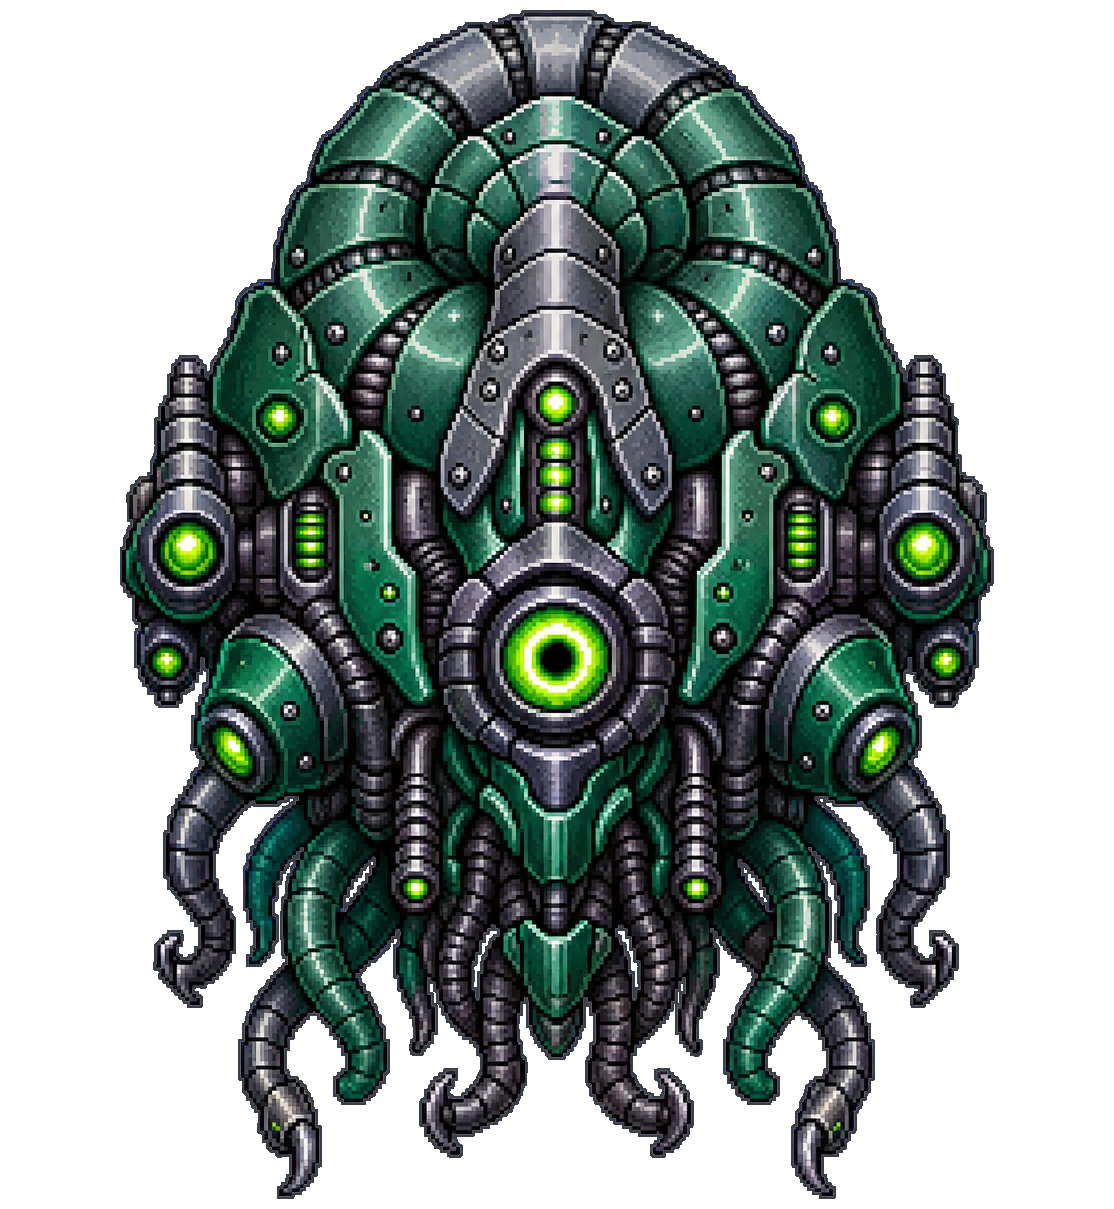
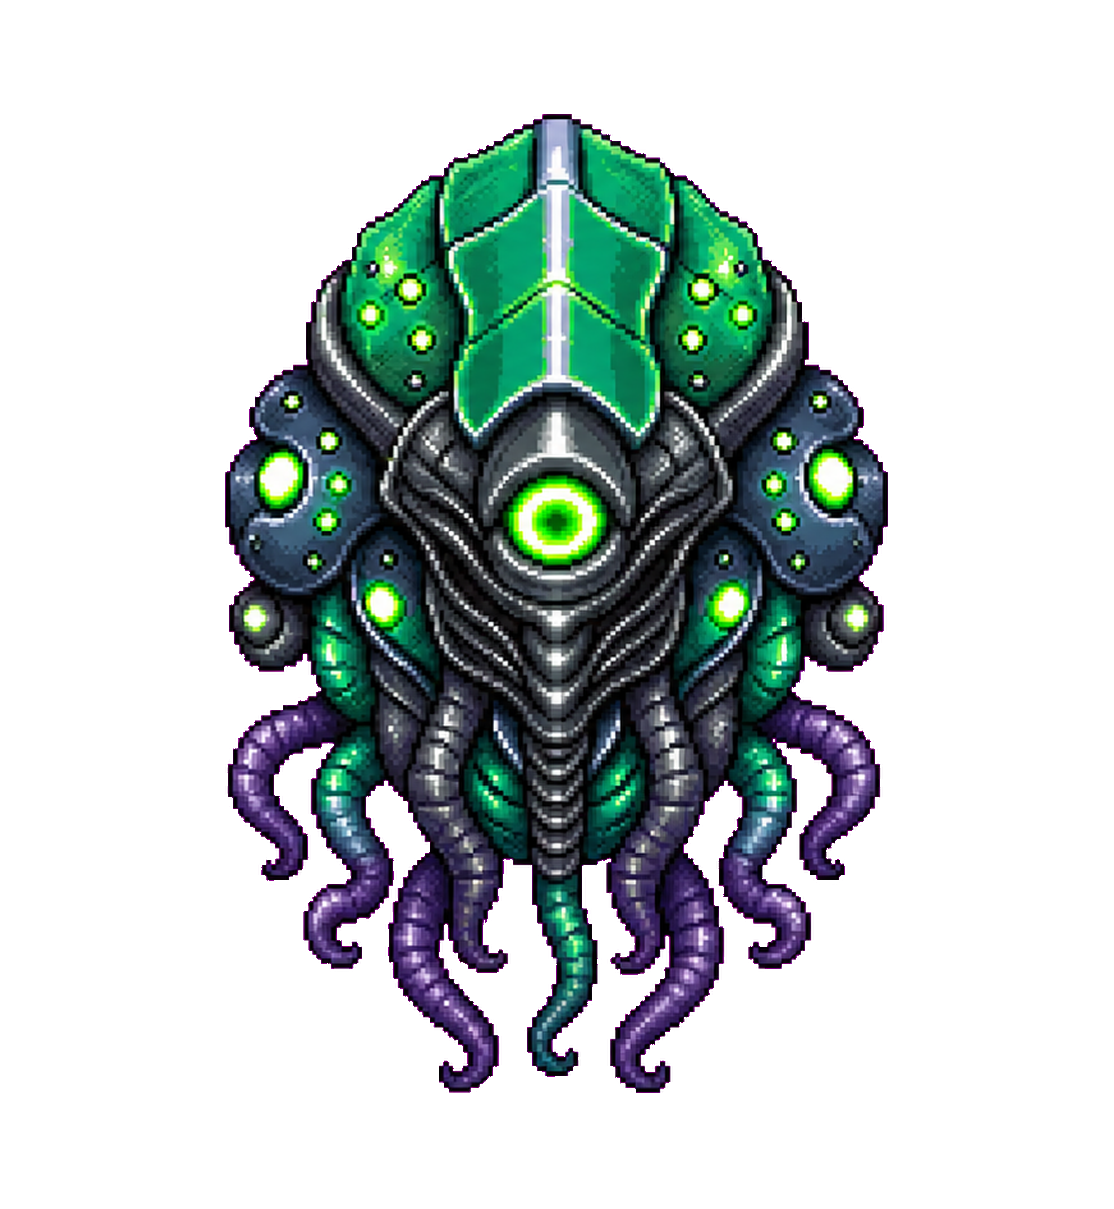
rediseño sprite miniboss

diff --git a/Personajes.hpp b/Personajes.hpp
@@ -308,7 +308,7 @@ private:
 
     float velocidadHorizontal_ = 2.4f;
     float velocidadVertical_ = 1.5f;
-    float escala_ = 0.13f;
+    float escala_ = 0.39f;
     int frame_ = 0;
     bool activo_ = false;
     int danio_ = 1;
